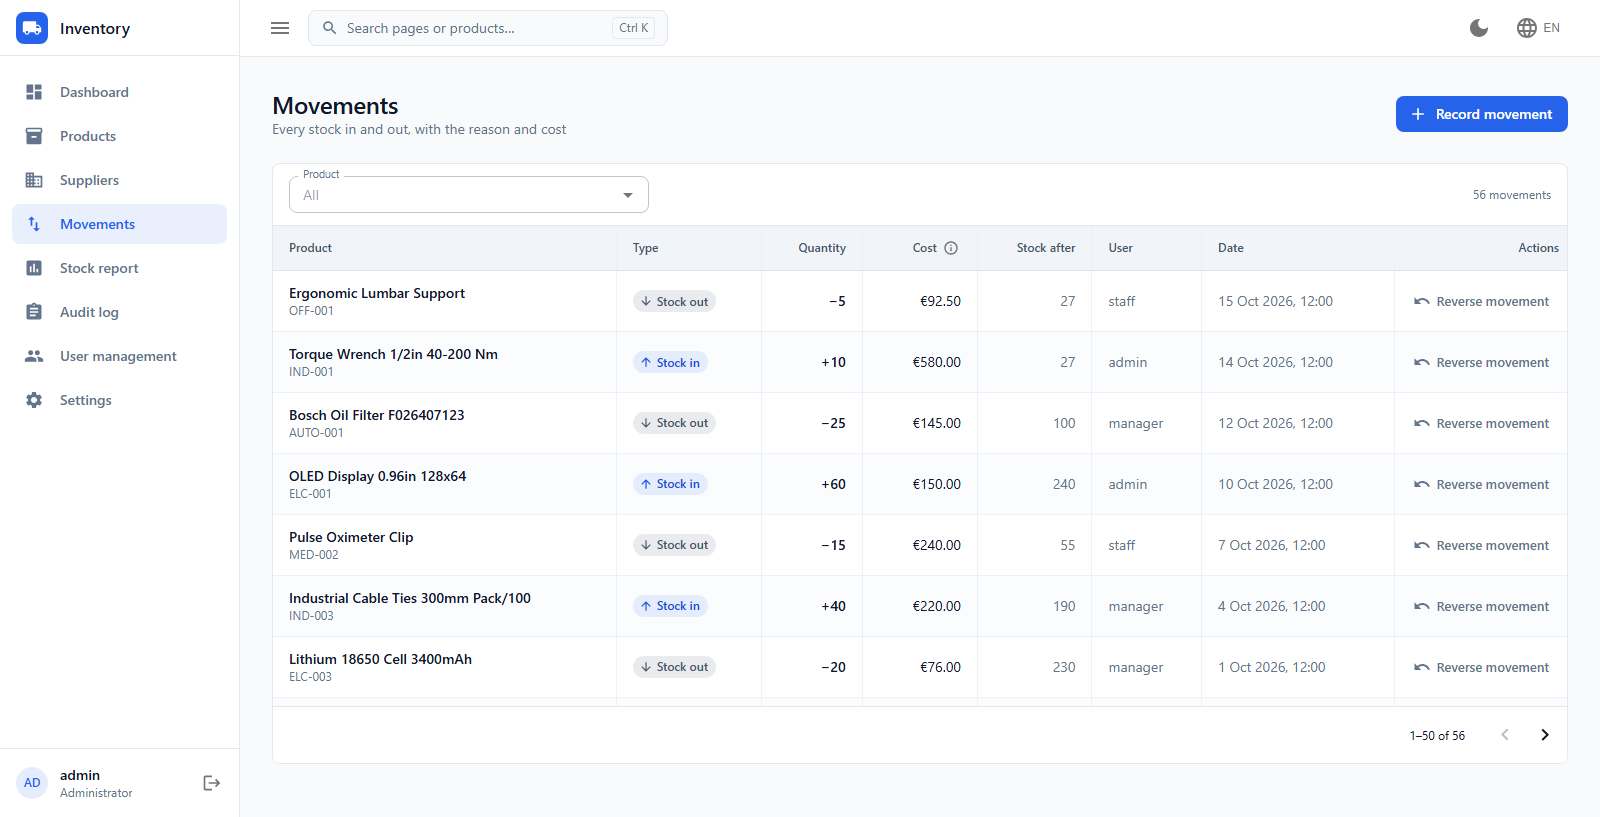
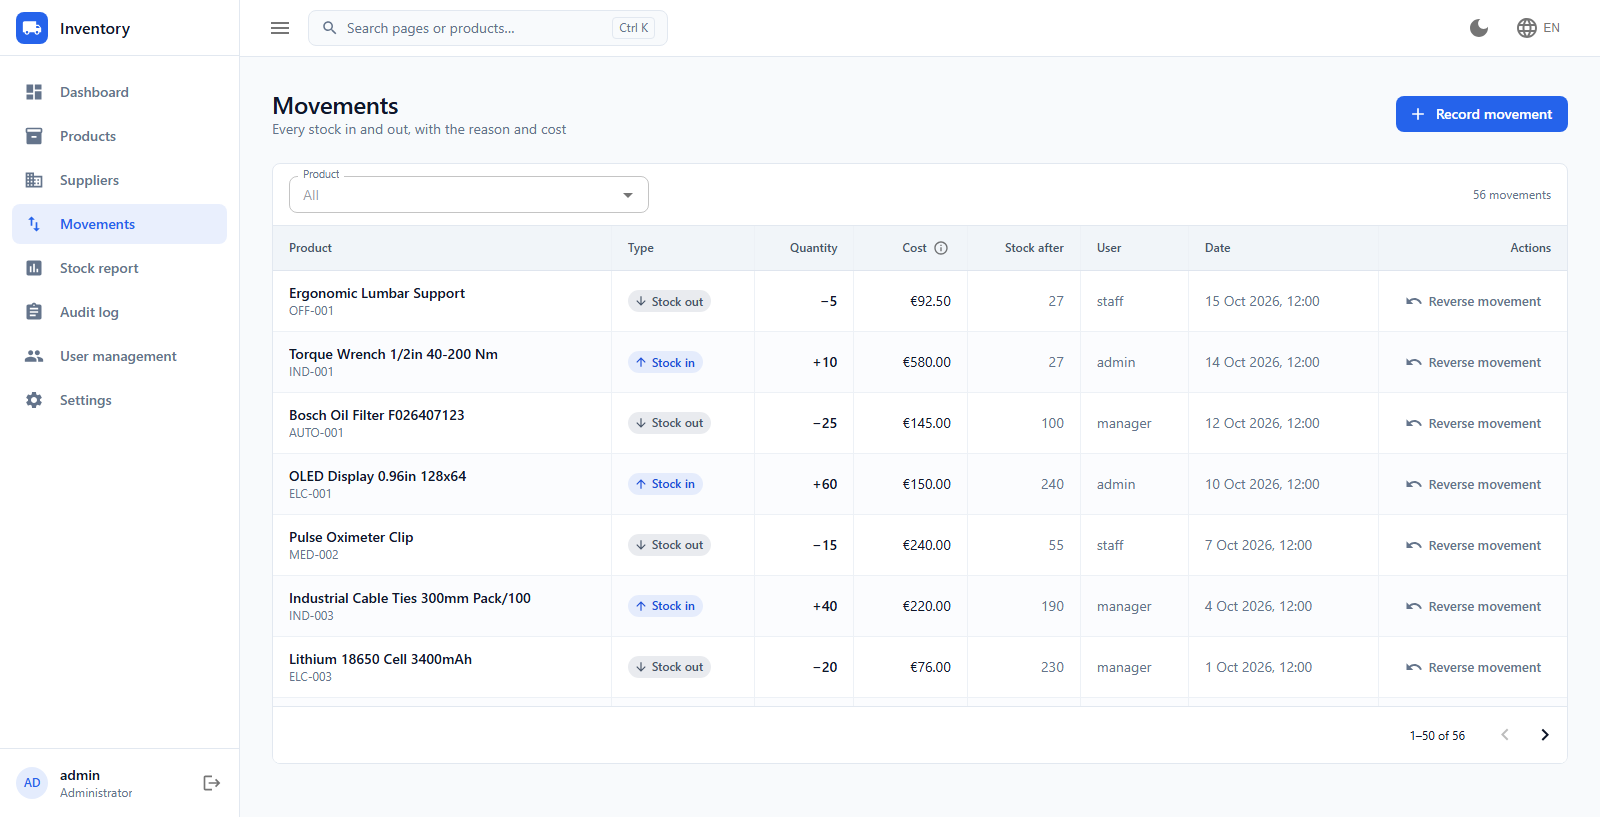
ui(mobile): wrap card titles, drop low-value columns and tighten cell padding on phones (movements, stock report); refresh screenshots
Claude-Session: https://claude.ai/code/session_015qBbo3vcrUBXtJFoZQBcCu

diff --git a/frontend/inventory-app/src/features/inventory/views/MovementsView.tsx b/frontend/inventory-app/src/features/inventory/views/MovementsView.tsx
@@ -75,7 +75,7 @@ export function MovementsView({ t, lang, perms, productsQ, movementsQ, productFi
         </SectionCard>
       ) : (
         <TableCard toolbar={toolbar}>
-          <Table size="small" sx={{ minWidth: 560 }}>
+          <Table size="small" sx={{ minWidth: { xs: 0, sm: 560 }, '& .MuiTableCell-root': { px: { xs: 1, sm: 2 } } }}>
             <TableHead>
               <TableRow>
                 <TableCell>{t('product')}</TableCell>
@@ -93,7 +93,7 @@ export function MovementsView({ t, lang, perms, productsQ, movementsQ, productFi
                 )}
                 <TableCell align="right" sx={{ display: { xs: 'none', lg: 'table-cell' } }}>{t('stockAfter')}</TableCell>
                 <TableCell sx={{ display: { xs: 'none', lg: 'table-cell' } }}>{t('user')}</TableCell>
-                <TableCell>{t('date')}</TableCell>
+                <TableCell sx={{ display: { xs: 'none', sm: 'table-cell' } }}>{t('date')}</TableCell>
                 {showActions && <TableCell sx={stickyActions}>{t('actions')}</TableCell>}
               </TableRow>
             </TableHead>
@@ -106,9 +106,11 @@ export function MovementsView({ t, lang, perms, productsQ, movementsQ, productFi
                   const isReversal = Boolean(m.reversalOfId);
                   return (
                     <TableRow key={m.id} hover sx={{ opacity: reversed ? 0.6 : 1 }}>
-                      <TableCell sx={{ maxWidth: { xs: 160, sm: 280 } }}>
+                      <TableCell sx={{ maxWidth: { xs: 140, sm: 280 } }}>
                         <Typography variant="body2" fontWeight={500} noWrap>{m.productName}</Typography>
                         <Typography variant="caption" color="text.secondary" noWrap component="div">{m.articleNumber}</Typography>
+                        {/* The date column is hidden on phones; the date moves under the product instead. */}
+                        <Typography variant="caption" color="text.secondary" noWrap component="div" sx={{ display: { xs: 'block', sm: 'none' } }}>{formatDateTime(m.occurredAt, lang)}</Typography>
                       </TableCell>
                       <TableCell>
                         <Stack direction="row" spacing={0.5} sx={{ flexWrap: 'wrap', gap: 0.5 }}>
@@ -125,7 +127,7 @@ export function MovementsView({ t, lang, perms, productsQ, movementsQ, productFi
                       )}
                       <TableCell align="right" sx={{ display: { xs: 'none', lg: 'table-cell' }, color: 'text.secondary' }}>{formatInt(m.stockAfter, lang)}</TableCell>
                       <TableCell sx={{ display: { xs: 'none', lg: 'table-cell' }, color: 'text.secondary' }}>{m.performedBy}</TableCell>
-                      <TableCell sx={{ whiteSpace: 'nowrap', color: 'text.secondary' }}>{formatDateTime(m.occurredAt, lang)}</TableCell>
+                      <TableCell sx={{ display: { xs: 'none', sm: 'table-cell' }, whiteSpace: 'nowrap', color: 'text.secondary' }}>{formatDateTime(m.occurredAt, lang)}</TableCell>
                       {showActions && (
                         <TableCell sx={stickyActions}>
                           {!reversed && !isReversal && (

diff --git a/frontend/inventory-app/src/features/inventory/views/ReportView.tsx b/frontend/inventory-app/src/features/inventory/views/ReportView.tsx
@@ -151,13 +151,13 @@ export function ReportView({ t, lang, perms, rows, reportQ }: ReportViewProps) {
             </SectionCard>
           ) : (
           <TableCard toolbar={toolbar}>
-            <Table size="small" sx={{ minWidth: 520 }}>
+            <Table size="small" sx={{ minWidth: { xs: 0, sm: 520 }, '& .MuiTableCell-root': { px: { xs: 1, sm: 2 } } }}>
               <TableHead>
                 <TableRow>
                   <TableCell>{t('product')}</TableCell>
                   <TableCell sx={{ display: { xs: 'none', md: 'table-cell' } }}>{t('articleNumber')}</TableCell>
-                  <TableCell align="right">{t('totalIn')}</TableCell>
-                  <TableCell align="right">{t('totalOut')}</TableCell>
+                  <TableCell align="right" sx={{ display: { xs: 'none', sm: 'table-cell' } }}>{t('totalIn')}</TableCell>
+                  <TableCell align="right" sx={{ display: { xs: 'none', sm: 'table-cell' } }}>{t('totalOut')}</TableCell>
                   <TableCell align="right">{t('currentStock')}</TableCell>
                   {showValue && <TableCell align="right" sx={{ display: { xs: 'none', sm: 'table-cell' } }}>{t('fifoValue')}</TableCell>}
                   <TableCell>{t('status')}</TableCell>
@@ -171,8 +171,8 @@ export function ReportView({ t, lang, perms, rows, reportQ }: ReportViewProps) {
                     <TableRow key={r.productId} hover>
                       <TableCell sx={{ maxWidth: { xs: 160, sm: 300 } }}><Typography variant="body2" fontWeight={500} noWrap>{r.productName}</Typography></TableCell>
                       <TableCell sx={{ display: { xs: 'none', md: 'table-cell' }, color: 'text.secondary' }}>{r.articleNumber}</TableCell>
-                      <TableCell align="right" >{formatInt(r.totalIn, lang)}</TableCell>
-                      <TableCell align="right" >{formatInt(r.totalOut, lang)}</TableCell>
+                      <TableCell align="right" sx={{ display: { xs: 'none', sm: 'table-cell' } }}>{formatInt(r.totalIn, lang)}</TableCell>
+                      <TableCell align="right" sx={{ display: { xs: 'none', sm: 'table-cell' } }}>{formatInt(r.totalOut, lang)}</TableCell>
                       <TableCell align="right" sx={{ fontWeight: 500 }}>{formatInt(r.currentStock, lang)}</TableCell>
                       {showValue && (
                         <TableCell align="right" sx={{ display: { xs: 'none', sm: 'table-cell' }, whiteSpace: 'nowrap' }}>

diff --git a/frontend/inventory-app/src/features/inventory/components/Primitives.tsx b/frontend/inventory-app/src/features/inventory/components/Primitives.tsx
@@ -73,7 +73,7 @@ export function CardHeader({ title, subtitle, action }: { title: string; subtitl
   return (
     <Stack direction="row" alignItems="flex-start" justifyContent="space-between" spacing={2} sx={{ minWidth: 0 }}>
       <Box sx={{ minWidth: 0 }}>
-        <Typography variant="subtitle1" noWrap>{title}</Typography>
+        <Typography variant="subtitle1" sx={{ overflowWrap: 'anywhere' }}>{title}</Typography>
         {subtitle && <Typography variant="caption" color="text.secondary" component="div">{subtitle}</Typography>}
       </Box>
       {action}
